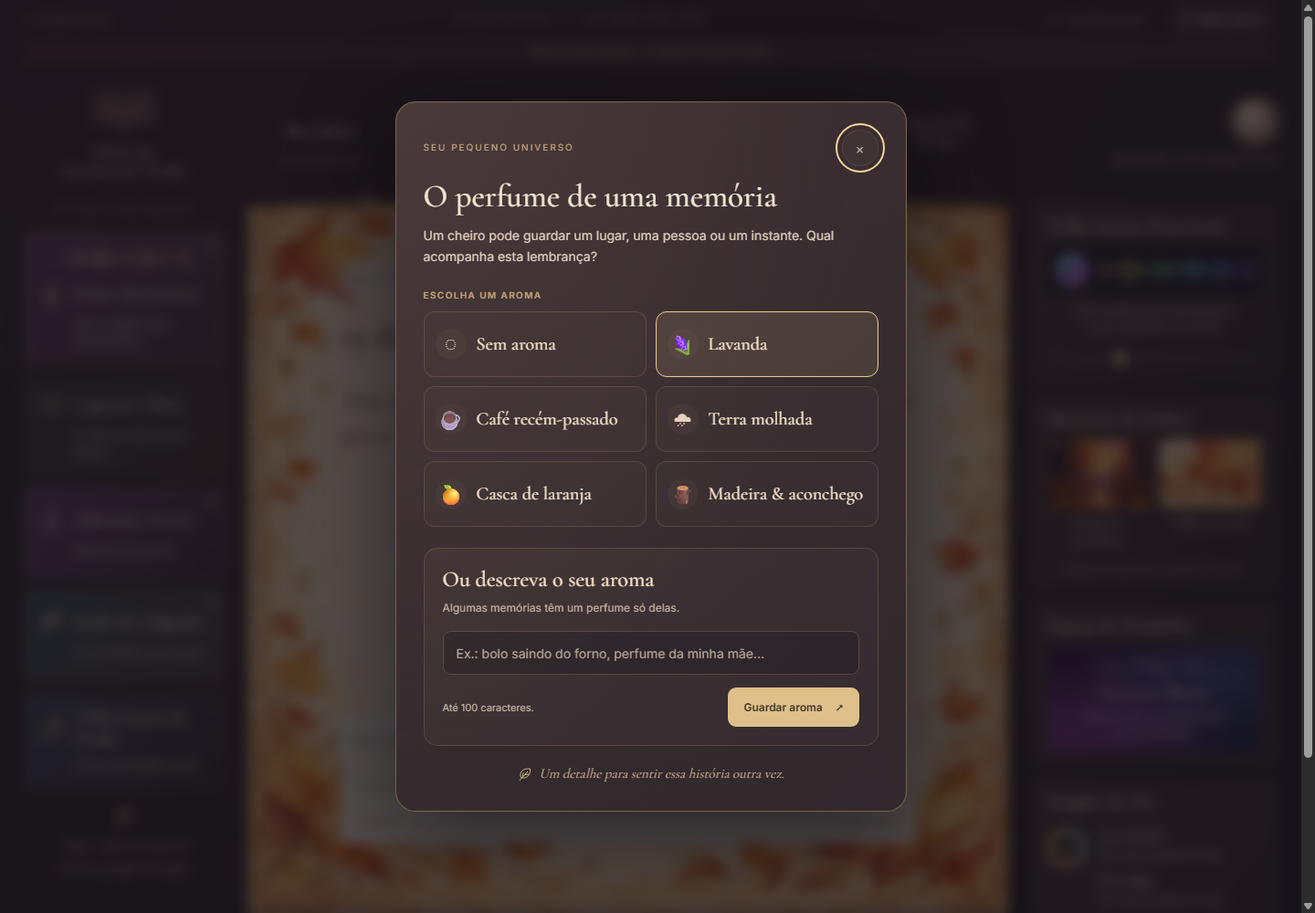
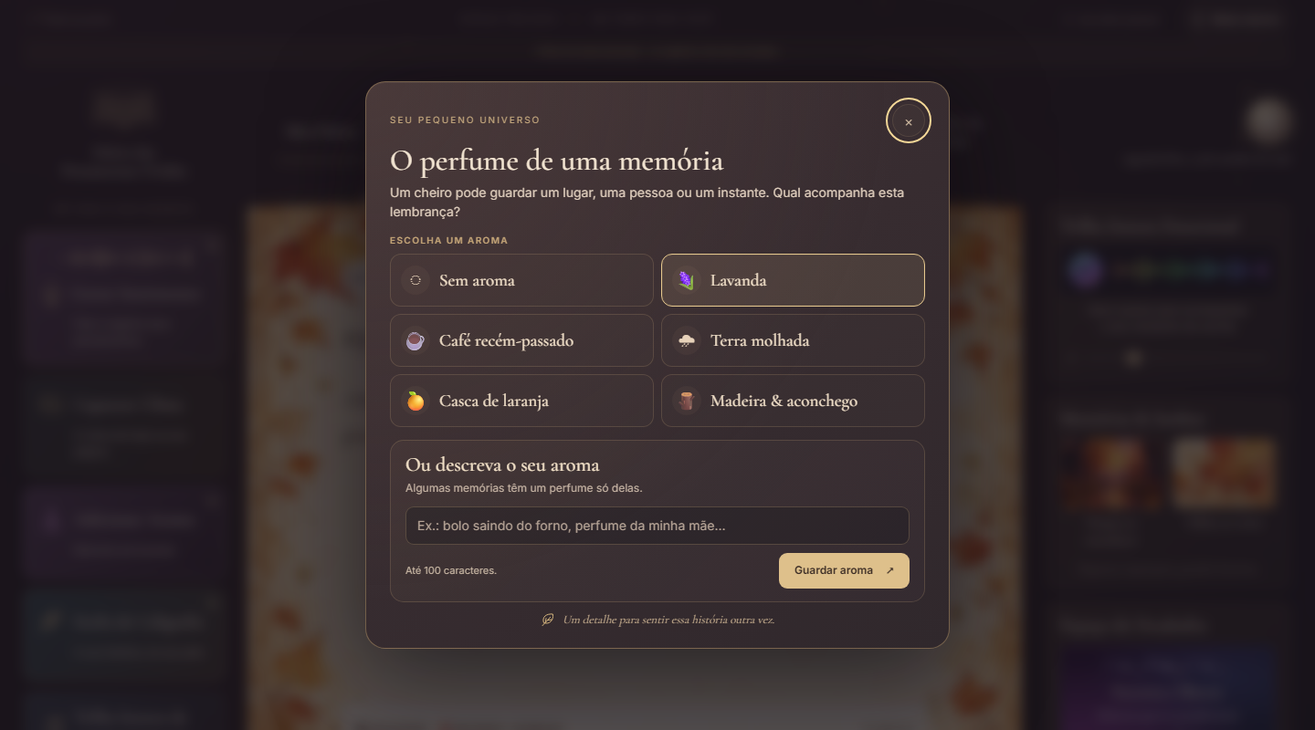
fix(diario): fit aroma dialog without scrolling

diff --git a/app/diary.css b/app/diary.css
@@ -1,5 +1,5 @@
 :root{color-scheme:dark;--night:#2a2124;--cream:#fff3d9;--gold:#e9c784;--muted:#beac9e;--ink:#3e2c24;--serif:'Cormorant Garamond',Georgia,serif;--hand:'Caveat','Segoe Print',cursive;--sans:'Inter',Arial,sans-serif}
-*{box-sizing:border-box}html{min-height:100%;background:var(--night)}body{margin:0;min-height:100svh;color:var(--cream);font:14px/1.5 var(--sans);background:radial-gradient(ellipse at 48% 52%,#5d432c55,transparent 65%),radial-gradient(ellipse at 0 0,#51303955,transparent 45%),linear-gradient(120deg,#282125,#312426 55%,#241e24);background-attachment:fixed}button,input,textarea,select{font:inherit}button,a,input,textarea,select{-webkit-tap-highlight-color:transparent}button{cursor:pointer}button:disabled{cursor:wait;opacity:.6}button,a{touch-action:manipulation}button{color:inherit}button:focus-visible,a:focus-visible{outline:2px solid #f4d797;outline-offset:5px}textarea:focus-visible,input:focus-visible,select:focus-visible{outline:2px solid #a77b3c;outline-offset:3px}button{border:0}a{color:inherit;text-decoration:none}svg{width:22px;height:22px;fill:none;stroke:currentColor;stroke-width:1.5;stroke-linecap:round;stroke-linejoin:round;flex-shrink:0}[hidden]{display:none!important}.icon-definitions{position:absolute;width:0;height:0;overflow:hidden}.sr-only{position:absolute;width:1px;height:1px;padding:0;margin:-1px;overflow:hidden;clip:rect(0,0,0,0);white-space:nowrap;border:0}
+*{box-sizing:border-box}html{min-height:100%;background:var(--night)}html.diary-modal-open,html.diary-modal-open body{overflow:hidden;scrollbar-width:none}html.diary-modal-open::-webkit-scrollbar,html.diary-modal-open body::-webkit-scrollbar{display:none;width:0;height:0}body{margin:0;min-height:100svh;color:var(--cream);font:14px/1.5 var(--sans);background:radial-gradient(ellipse at 48% 52%,#5d432c55,transparent 65%),radial-gradient(ellipse at 0 0,#51303955,transparent 45%),linear-gradient(120deg,#282125,#312426 55%,#241e24);background-attachment:fixed}button,input,textarea,select{font:inherit}button,a,input,textarea,select{-webkit-tap-highlight-color:transparent}button{cursor:pointer}button:disabled{cursor:wait;opacity:.6}button,a{touch-action:manipulation}button{color:inherit}button:focus-visible,a:focus-visible{outline:2px solid #f4d797;outline-offset:5px}textarea:focus-visible,input:focus-visible,select:focus-visible{outline:2px solid #a77b3c;outline-offset:3px}button{border:0}a{color:inherit;text-decoration:none}svg{width:22px;height:22px;fill:none;stroke:currentColor;stroke-width:1.5;stroke-linecap:round;stroke-linejoin:round;flex-shrink:0}[hidden]{display:none!important}.icon-definitions{position:absolute;width:0;height:0;overflow:hidden}.sr-only{position:absolute;width:1px;height:1px;padding:0;margin:-1px;overflow:hidden;clip:rect(0,0,0,0);white-space:nowrap;border:0}
 .diary-shell{position:relative;max-width:1740px;margin:0 auto;padding:0 26px 12px}.portal-bar{display:flex;align-items:center;justify-content:space-between;gap:14px;min-height:43px;border-bottom:1px solid #dcb67519;font-size:10px;color:#c4ad9b}.portal-bar>span:nth-child(2){font-size:9px;letter-spacing:.19em}.portal-bar i{font-style:normal;color:#d4ae68;padding:0 9px}.back-link{display:inline-flex;align-items:center;gap:7px;min-height:40px}.back-link svg{width:15px;height:15px}.back-link:hover{color:#fff3d9}.private-badge{display:flex;align-items:center;gap:6px;font-size:10px}.private-badge svg{width:12px;height:12px}.diary-header{display:grid;grid-template-columns:230px minmax(0,1fr) 220px;align-items:center;gap:25px;padding:23px 0 25px}.diary-brand{display:flex;flex-direction:column;align-items:center;text-align:center;font:500 16px/1.14 var(--serif);color:#f8ebd6;letter-spacing:.015em}.diary-brand br{display:none}.diary-brand strong{font-weight:500}.diary-brand>svg{width:90px;height:54px;color:#e9c999;fill:#e3c7971a;filter:drop-shadow(0 0 13px #f7d08a55);stroke-width:1}.diary-tabs{display:flex;align-items:stretch;justify-content:space-around;gap:13px;align-self:center}.diary-tabs button{position:relative;flex:1;min-width:0;padding:16px 3px 18px;font:500 17px/1.1 var(--serif);background:none;white-space:nowrap;color:#dfcebd;transition:color .2s}.diary-tabs button:after{content:'';position:absolute;bottom:5px;left:20%;right:20%;height:1px;background:#f1d89b;transform:scaleX(0);transition:transform .2s}.diary-tabs button.is-active{color:#fff5dc}.diary-tabs button.is-active:after{transform:scaleX(1);box-shadow:0 0 8px #e9c78477}.diary-tabs button:hover{color:#fff8ea}.diary-identity{display:flex;flex-direction:column;align-items:flex-end;gap:7px;font:12px var(--serif);color:#e4d3c1}.avatar{display:grid;place-items:center;width:34px;height:34px;border:1px solid #e9ce94aa;border-radius:50%;background:radial-gradient(circle at 35% 30%,#fff1ca,#99816d 70%);box-shadow:0 0 18px #f7dc8a55;color:#fff9ed;font:19px var(--serif)}
 .diary-layout{display:grid;grid-template-columns:230px minmax(0,1fr) 250px;gap:25px;align-items:start}.rail-caption{display:block;text-align:center;font-size:8px;letter-spacing:.17em;color:#c4aa92;margin:0 0 13px}.diary-tools{padding-top:7px;display:flex;flex-direction:column;gap:17px}.tool-card{position:relative;isolation:isolate;width:100%;text-align:center;background:linear-gradient(120deg,#51414788,#342a2b);border:1px solid #bba07b77;border-radius:10px;padding:15px 12px;color:#fff0dd;box-shadow:inset 0 0 12px #eac9870a,0 5px 18px #100c1222;transition:transform .2s,border-color .2s,box-shadow .2s}.tool-card:hover{transform:translateY(-2px);border-color:#ffe6ac;box-shadow:0 0 20px #d9b47125,inset 0 0 18px #cbaa6922}.tool-card:active{transform:translateY(1px)}.tool-card__heading{display:flex;align-items:center;justify-content:center;gap:9px;font:500 19px/1.12 var(--serif)}.tool-card__heading svg{width:27px;height:32px;color:#edcf99;filter:drop-shadow(0 0 7px #efbb7266)}.tool-card small{display:block;margin-top:8px;font-size:11px;line-height:1.5;color:#d6c7bb}.tool-card--voice{background:linear-gradient(130deg,#6d4c70bb,#423338);border-color:#dbbb8b;box-shadow:-2px 0 11px #b78ad36b,inset 0 0 16px #d9add21a}.tool-card--voice:before,.tool-card--aroma:before,.tool-card--font:before{content:'✦';position:absolute;right:8px;top:-11px;color:#fff0b5;text-shadow:0 0 10px #ffe287,0 0 20px #ffcf76;font-size:22px}.voice-wave{display:block;color:#f2d3be;letter-spacing:2px;margin:-6px 0 8px;font:19px/1 monospace;text-shadow:0 0 7px #f4cbac88}.tool-card--voice.is-listening{animation:micGlow 1.5s ease infinite}.tool-card--weather{background:linear-gradient(120deg,#3d4545aa,#3f3328)}.weather-illustration{font-size:34px;line-height:1.15}.tool-card--aroma{background:linear-gradient(130deg,#715075bb,#382932);border-color:#bd9abd;box-shadow:-1px 0 10px #d3a3dc55}.tool-card--aroma svg{color:#e4a5e6;fill:#a665a24a}.tool-card--font{padding:13px 8px;background:linear-gradient(130deg,#3a5157,#453a30);border-color:#bdae8d}.tool-card--font .tool-card__heading{font-size:18px}.tool-card--font svg{fill:#c5b18444}.tool-card--font small{font-size:10px;margin-top:4px}.tool-card--sound{background:linear-gradient(130deg,#3e4651,#332a2c);padding:14px 8px}.tool-card--sound .tool-card__heading{font-size:17px}.tools-footnote{margin:8px 0 0;text-align:center;font:italic 15px/1.6 var(--serif);color:#b49d86}.tools-footnote svg{display:block;margin:0 auto 8px;color:#bea47c;width:22px;height:22px}
 .journal-stage{min-width:0;position:relative}.journal-stage:before,.journal-stage:after{content:'✦';position:absolute;top:-14px;left:15%;font-size:12px;color:#fff3b7;filter:drop-shadow(0 0 7px #ffcf6f);z-index:2}.journal-stage:after{left:auto;right:13%;top:-10px;font-size:8px}.paper{position:relative;min-height:690px;min-height:max(690px,calc(100svh - 225px));background:#f8eace url('./assets/diary/autumn-paper.webp?h=550a30df54') center/100% 100% no-repeat;color:var(--ink);border:1px solid #c5a06e;box-shadow:0 0 0 3px #7b593b99,0 0 0 5px #291c17,4px 8px 27px #0c08098a,0 0 38px #e6be6b1a;border-radius:48% 40% 3px 3px/6px 6px 3px 3px;display:flex;overflow:hidden}.paper:before{content:'';position:absolute;inset:0;pointer-events:none;box-shadow:inset 0 0 30px #985a241c;z-index:1}.paper-content{width:100%;min-width:0;position:relative;display:flex;flex-direction:column;padding:46px clamp(43px,4.4vw,82px) 40px;z-index:2}.page-topline{display:flex;align-items:center;justify-content:space-between;gap:8px;font-size:8px;letter-spacing:.15em;color:#987644;min-height:28px}.paper-action{padding:7px 0;background:none;letter-spacing:0;font-size:10px;color:#7f6847;white-space:nowrap}.paper-action:hover{color:#392718}.paper h1{font:500 clamp(27px,2.6vw,39px)/1.3 var(--hand);color:#3c2b22;margin:13px 0 17px}.journal-text{flex:1 0 auto;width:100%;min-height:350px;resize:none;overflow:hidden;padding:0;border:0;outline:none!important;box-shadow:none;background:none;color:#35271f;font:500 clamp(24px,2.2vw,32px)/1.47 var(--hand);caret-color:#8b5b35;scrollbar-width:thin}.journal-text::placeholder{color:#6e533b;opacity:.77}.journal-text:disabled{opacity:.7;cursor:wait}.paper[data-font=classic] .journal-text{font-family:var(--serif);font-size:25px;line-height:1.6}.paper[data-font=simple] .journal-text{font-family:var(--sans);font-size:17px;line-height:1.9}.entry-details{display:flex;align-items:center;justify-content:space-between;gap:10px;margin:20px 0 14px;font-size:9px;color:#8b795b}.feeling-button{background:none;padding:8px 0;color:#816443;font:italic 15px var(--serif);text-align:left}.feeling-button:hover{color:#402e22}.entry-details>span{white-space:nowrap;font-size:8px}.save-strip{display:flex;align-items:center;gap:9px;flex-wrap:wrap;background:#f4eed3d6;border:1px solid #b9ae8b8a;border-radius:8px;padding:9px 10px;box-shadow:0 3px 14px #7d572a0a;color:#605b40;font:12px var(--serif)}.save-state{display:flex;align-items:center;gap:6px;flex-shrink:0}.save-state:before{content:'○';color:#8b8164}.save-state[data-state=saved]:before{content:'✓';color:#66864d}.save-state[data-state=error]{color:#8c3f2d;cursor:pointer}.save-state[data-state=error]:before{content:'!';border:1px solid #8c3f2d;border-radius:50%;width:14px;height:14px;text-align:center;font-size:12px}.entry-tags{display:flex;gap:4px;flex-wrap:wrap}.tag{padding:3px 7px;background:#b7a38433;border-radius:9px;font:10px var(--serif);color:#654e37}.tags-button{margin-left:auto;padding:0 5px;background:none;color:#7a6646;font:18px var(--serif)}.paper-bottom{display:flex;justify-content:space-between;gap:12px;margin-top:10px;color:#a18a65;font:italic 11px var(--serif)}.text-button{padding:2px 0;background:none;color:#987250;font:11px var(--serif)}.journal-caption{margin:17px 0 0;text-align:center;font:italic 13px var(--serif);color:#a98f78}.journal-caption span{color:#d5b273;margin-left:7px}
@@ -891,44 +891,47 @@
 
 /* Aroma: suggestions and a personal olfactory memory in one quiet surface. */
 .diary-dialog--aroma {
-  width: min(560px, calc(100% - 32px));
-  padding: 30px;
+  width: min(640px, calc(100% - 32px));
+  padding: 24px 26px 22px;
   border-radius: 22px;
   border-color: #c8a77070;
   background: radial-gradient(ellipse at 0 0, #6550474d, transparent 65%), linear-gradient(145deg, #3e3034, #30282c);
   box-shadow: 0 28px 100px #09070b99, inset 0 1px #ffe5bc0d;
+  overflow: hidden;
 }
-.diary-dialog--aroma h2 { margin: 14px 0 12px; font-size: 35px; line-height: 1.1; text-wrap: balance; }
-.diary-dialog--aroma .aroma-intro { margin: 0 0 24px; color: #decdbc; font-size: 14px; line-height: 1.65; }
+.diary-dialog--aroma .dialog-close { width: 36px; height: 36px; }
+.diary-dialog--aroma h2 { margin: 8px 0 8px; font-size: 33px; line-height: 1.08; text-wrap: balance; }
+.diary-dialog--aroma .aroma-intro { margin: 0 0 14px; color: #decdbc; font-size: 14px; line-height: 1.45; }
 .aroma-section-label { color: #c4a578; font: 600 10px/1.5 var(--sans); letter-spacing: .14em; }
-.aroma-choices { gap: 10px; margin: 10px 0 23px; }
-.aroma-choice { min-width: 0; min-height: 72px; padding: 12px; gap: 11px; border-radius: 12px; border-color: #c6ab7d33; background: #f2d4a305; }
+.aroma-choices { gap: 8px; margin: 7px 0 14px; }
+.aroma-choice { min-width: 0; min-height: 58px; padding: 8px 11px; gap: 10px; border-radius: 12px; border-color: #c6ab7d33; background: #f2d4a305; }
 .aroma-choice:hover { background: #e6c99a10; border-color: #dfbf8677; }
 .aroma-choice[aria-pressed="true"] { background: #d2b18422; border-color: #e6c88e; box-shadow: inset 0 0 0 1px #e6c88e12; }
-.aroma-choice > span { display: grid; place-items: center; flex: 0 0 34px; width: 34px; height: 34px; border-radius: 50%; background: #e6c99a0c; font-size: 22px; }
-.aroma-choice strong { min-width: 0; font: 500 20px/1.2 var(--serif); color: #f0dfc8; }
-.aroma-custom { padding: 20px; border: 1px solid #c4a57838; border-radius: 15px; background: linear-gradient(135deg,#e5c28b0c,#b28fbb08); }
-.aroma-custom > label { display: block; color: #f2e1c8; font: 500 24px/1.2 var(--serif); }
-.diary-dialog--aroma .aroma-custom > p { margin: 6px 0 15px; font-size: 12px; color: #c7b5a5; }
-.diary-dialog--aroma #customAroma { min-height: 48px; padding: 13px 14px; font-size: 14px; border-color: #b99c704d; background: #17151c52; border-radius: 9px; color: #f4e6d4; }
+.aroma-choice > span { display: grid; place-items: center; flex: 0 0 32px; width: 32px; height: 32px; border-radius: 50%; background: #e6c99a0c; font-size: 21px; }
+.aroma-choice strong { min-width: 0; font: 500 19px/1.15 var(--serif); color: #f0dfc8; }
+.aroma-custom { padding: 14px 16px; border: 1px solid #c4a57838; border-radius: 15px; background: linear-gradient(135deg,#e5c28b0c,#b28fbb08); }
+.aroma-custom > label { display: block; color: #f2e1c8; font: 500 22px/1.15 var(--serif); }
+.diary-dialog--aroma .aroma-custom > p { margin: 3px 0 9px; font-size: 12px; color: #c7b5a5; }
+.diary-dialog--aroma #customAroma { min-height: 42px; padding: 10px 12px; font-size: 14px; border-color: #b99c704d; background: #17151c52; border-radius: 9px; color: #f4e6d4; }
 .diary-dialog--aroma #customAroma::placeholder { color: #b7a597; opacity: 1; }
-.aroma-custom__footer { display: flex; flex-wrap: wrap; align-items: center; justify-content: space-between; gap: 12px; margin-top: 14px; }
+.aroma-custom__footer { display: flex; flex-wrap: wrap; align-items: center; justify-content: space-between; gap: 10px; margin-top: 9px; }
 .aroma-custom__footer > small { color: #c8b7a4; font-size: 11px; }
-.aroma-custom__footer .gold-button { min-height: 43px; gap: 14px; font-size: 12px; border-radius: 9px; }
-.diary-dialog--aroma .aroma-footnote { display: flex; align-items: center; justify-content: center; gap: 8px; margin: 20px 0 0; color: #c6ae8f; font: italic 15px/1.4 var(--serif); text-align: center; }
+.aroma-custom__footer .gold-button { min-height: 39px; gap: 14px; padding-block: 8px; font-size: 12px; border-radius: 9px; }
+.diary-dialog--aroma .aroma-footnote { display: flex; align-items: center; justify-content: center; gap: 8px; margin: 11px 0 0; color: #c6ae8f; font: italic 13px/1.35 var(--serif); text-align: center; }
 .aroma-footnote svg { width: 16px; height: 16px; color: #d5b57e; }
 #entryExtra { min-width: 0; white-space: normal; overflow-wrap: anywhere; }
 [data-diary-theme="night"] .aroma-custom { background: #20232b80; border-color: #b59b7038; }
 [data-diary-theme="night"] .diary-dialog--aroma #customAroma { background: #1d2029; }
 @media (max-width: 480px) {
-  .diary-dialog--aroma { padding: 22px; width: calc(100% - 24px); }
-  .diary-dialog--aroma h2 { font-size: 30px; }
-  .diary-dialog--aroma .aroma-intro { font-size: 13px; margin-bottom: 20px; }
-  .aroma-choices { gap: 8px; }
-  .aroma-choice { padding: 10px 8px; gap: 7px; min-height: 70px; }
-  .aroma-choice > span { flex-basis: 27px; width: 27px; height: 30px; font-size: 19px; }
-  .aroma-choice strong { font-size: 18px; }
-  .aroma-custom { padding: 16px; }
-  .aroma-custom > label { font-size: 23px; }
+  .diary-dialog--aroma { padding: 18px; width: calc(100% - 24px); }
+  .diary-dialog--aroma h2 { font-size: 28px; }
+  .diary-dialog--aroma .aroma-intro { font-size: 13px; margin-bottom: 12px; }
+  .aroma-choices { gap: 7px; margin-bottom: 12px; }
+  .aroma-choice { padding: 7px; gap: 6px; min-height: 55px; }
+  .aroma-choice > span { flex-basis: 27px; width: 27px; height: 27px; font-size: 18px; }
+  .aroma-choice strong { font-size: 17px; }
+  .aroma-custom { padding: 13px; }
+  .aroma-custom > label { font-size: 21px; }
   .aroma-custom__footer .gold-button { width: 100%; justify-content: center; }
+  .diary-dialog--aroma .aroma-footnote { margin-top: 9px; font-size: 12px; }
 }

diff --git a/staging/app/diary.css b/staging/app/diary.css
@@ -1,5 +1,5 @@
 :root{color-scheme:dark;--night:#2a2124;--cream:#fff3d9;--gold:#e9c784;--muted:#beac9e;--ink:#3e2c24;--serif:'Cormorant Garamond',Georgia,serif;--hand:'Caveat','Segoe Print',cursive;--sans:'Inter',Arial,sans-serif}
-*{box-sizing:border-box}html{min-height:100%;background:var(--night)}body{margin:0;min-height:100svh;color:var(--cream);font:14px/1.5 var(--sans);background:radial-gradient(ellipse at 48% 52%,#5d432c55,transparent 65%),radial-gradient(ellipse at 0 0,#51303955,transparent 45%),linear-gradient(120deg,#282125,#312426 55%,#241e24);background-attachment:fixed}button,input,textarea,select{font:inherit}button,a,input,textarea,select{-webkit-tap-highlight-color:transparent}button{cursor:pointer}button:disabled{cursor:wait;opacity:.6}button,a{touch-action:manipulation}button{color:inherit}button:focus-visible,a:focus-visible{outline:2px solid #f4d797;outline-offset:5px}textarea:focus-visible,input:focus-visible,select:focus-visible{outline:2px solid #a77b3c;outline-offset:3px}button{border:0}a{color:inherit;text-decoration:none}svg{width:22px;height:22px;fill:none;stroke:currentColor;stroke-width:1.5;stroke-linecap:round;stroke-linejoin:round;flex-shrink:0}[hidden]{display:none!important}.icon-definitions{position:absolute;width:0;height:0;overflow:hidden}.sr-only{position:absolute;width:1px;height:1px;padding:0;margin:-1px;overflow:hidden;clip:rect(0,0,0,0);white-space:nowrap;border:0}
+*{box-sizing:border-box}html{min-height:100%;background:var(--night)}html.diary-modal-open,html.diary-modal-open body{overflow:hidden;scrollbar-width:none}html.diary-modal-open::-webkit-scrollbar,html.diary-modal-open body::-webkit-scrollbar{display:none;width:0;height:0}body{margin:0;min-height:100svh;color:var(--cream);font:14px/1.5 var(--sans);background:radial-gradient(ellipse at 48% 52%,#5d432c55,transparent 65%),radial-gradient(ellipse at 0 0,#51303955,transparent 45%),linear-gradient(120deg,#282125,#312426 55%,#241e24);background-attachment:fixed}button,input,textarea,select{font:inherit}button,a,input,textarea,select{-webkit-tap-highlight-color:transparent}button{cursor:pointer}button:disabled{cursor:wait;opacity:.6}button,a{touch-action:manipulation}button{color:inherit}button:focus-visible,a:focus-visible{outline:2px solid #f4d797;outline-offset:5px}textarea:focus-visible,input:focus-visible,select:focus-visible{outline:2px solid #a77b3c;outline-offset:3px}button{border:0}a{color:inherit;text-decoration:none}svg{width:22px;height:22px;fill:none;stroke:currentColor;stroke-width:1.5;stroke-linecap:round;stroke-linejoin:round;flex-shrink:0}[hidden]{display:none!important}.icon-definitions{position:absolute;width:0;height:0;overflow:hidden}.sr-only{position:absolute;width:1px;height:1px;padding:0;margin:-1px;overflow:hidden;clip:rect(0,0,0,0);white-space:nowrap;border:0}
 .diary-shell{position:relative;max-width:1740px;margin:0 auto;padding:0 26px 12px}.portal-bar{display:flex;align-items:center;justify-content:space-between;gap:14px;min-height:43px;border-bottom:1px solid #dcb67519;font-size:10px;color:#c4ad9b}.portal-bar>span:nth-child(2){font-size:9px;letter-spacing:.19em}.portal-bar i{font-style:normal;color:#d4ae68;padding:0 9px}.back-link{display:inline-flex;align-items:center;gap:7px;min-height:40px}.back-link svg{width:15px;height:15px}.back-link:hover{color:#fff3d9}.private-badge{display:flex;align-items:center;gap:6px;font-size:10px}.private-badge svg{width:12px;height:12px}.diary-header{display:grid;grid-template-columns:230px minmax(0,1fr) 220px;align-items:center;gap:25px;padding:23px 0 25px}.diary-brand{display:flex;flex-direction:column;align-items:center;text-align:center;font:500 16px/1.14 var(--serif);color:#f8ebd6;letter-spacing:.015em}.diary-brand br{display:none}.diary-brand strong{font-weight:500}.diary-brand>svg{width:90px;height:54px;color:#e9c999;fill:#e3c7971a;filter:drop-shadow(0 0 13px #f7d08a55);stroke-width:1}.diary-tabs{display:flex;align-items:stretch;justify-content:space-around;gap:13px;align-self:center}.diary-tabs button{position:relative;flex:1;min-width:0;padding:16px 3px 18px;font:500 17px/1.1 var(--serif);background:none;white-space:nowrap;color:#dfcebd;transition:color .2s}.diary-tabs button:after{content:'';position:absolute;bottom:5px;left:20%;right:20%;height:1px;background:#f1d89b;transform:scaleX(0);transition:transform .2s}.diary-tabs button.is-active{color:#fff5dc}.diary-tabs button.is-active:after{transform:scaleX(1);box-shadow:0 0 8px #e9c78477}.diary-tabs button:hover{color:#fff8ea}.diary-identity{display:flex;flex-direction:column;align-items:flex-end;gap:7px;font:12px var(--serif);color:#e4d3c1}.avatar{display:grid;place-items:center;width:34px;height:34px;border:1px solid #e9ce94aa;border-radius:50%;background:radial-gradient(circle at 35% 30%,#fff1ca,#99816d 70%);box-shadow:0 0 18px #f7dc8a55;color:#fff9ed;font:19px var(--serif)}
 .diary-layout{display:grid;grid-template-columns:230px minmax(0,1fr) 250px;gap:25px;align-items:start}.rail-caption{display:block;text-align:center;font-size:8px;letter-spacing:.17em;color:#c4aa92;margin:0 0 13px}.diary-tools{padding-top:7px;display:flex;flex-direction:column;gap:17px}.tool-card{position:relative;isolation:isolate;width:100%;text-align:center;background:linear-gradient(120deg,#51414788,#342a2b);border:1px solid #bba07b77;border-radius:10px;padding:15px 12px;color:#fff0dd;box-shadow:inset 0 0 12px #eac9870a,0 5px 18px #100c1222;transition:transform .2s,border-color .2s,box-shadow .2s}.tool-card:hover{transform:translateY(-2px);border-color:#ffe6ac;box-shadow:0 0 20px #d9b47125,inset 0 0 18px #cbaa6922}.tool-card:active{transform:translateY(1px)}.tool-card__heading{display:flex;align-items:center;justify-content:center;gap:9px;font:500 19px/1.12 var(--serif)}.tool-card__heading svg{width:27px;height:32px;color:#edcf99;filter:drop-shadow(0 0 7px #efbb7266)}.tool-card small{display:block;margin-top:8px;font-size:11px;line-height:1.5;color:#d6c7bb}.tool-card--voice{background:linear-gradient(130deg,#6d4c70bb,#423338);border-color:#dbbb8b;box-shadow:-2px 0 11px #b78ad36b,inset 0 0 16px #d9add21a}.tool-card--voice:before,.tool-card--aroma:before,.tool-card--font:before{content:'✦';position:absolute;right:8px;top:-11px;color:#fff0b5;text-shadow:0 0 10px #ffe287,0 0 20px #ffcf76;font-size:22px}.voice-wave{display:block;color:#f2d3be;letter-spacing:2px;margin:-6px 0 8px;font:19px/1 monospace;text-shadow:0 0 7px #f4cbac88}.tool-card--voice.is-listening{animation:micGlow 1.5s ease infinite}.tool-card--weather{background:linear-gradient(120deg,#3d4545aa,#3f3328)}.weather-illustration{font-size:34px;line-height:1.15}.tool-card--aroma{background:linear-gradient(130deg,#715075bb,#382932);border-color:#bd9abd;box-shadow:-1px 0 10px #d3a3dc55}.tool-card--aroma svg{color:#e4a5e6;fill:#a665a24a}.tool-card--font{padding:13px 8px;background:linear-gradient(130deg,#3a5157,#453a30);border-color:#bdae8d}.tool-card--font .tool-card__heading{font-size:18px}.tool-card--font svg{fill:#c5b18444}.tool-card--font small{font-size:10px;margin-top:4px}.tool-card--sound{background:linear-gradient(130deg,#3e4651,#332a2c);padding:14px 8px}.tool-card--sound .tool-card__heading{font-size:17px}.tools-footnote{margin:8px 0 0;text-align:center;font:italic 15px/1.6 var(--serif);color:#b49d86}.tools-footnote svg{display:block;margin:0 auto 8px;color:#bea47c;width:22px;height:22px}
 .journal-stage{min-width:0;position:relative}.journal-stage:before,.journal-stage:after{content:'✦';position:absolute;top:-14px;left:15%;font-size:12px;color:#fff3b7;filter:drop-shadow(0 0 7px #ffcf6f);z-index:2}.journal-stage:after{left:auto;right:13%;top:-10px;font-size:8px}.paper{position:relative;min-height:690px;min-height:max(690px,calc(100svh - 225px));background:#f8eace url('./assets/diary/autumn-paper.webp?h=550a30df54') center/100% 100% no-repeat;color:var(--ink);border:1px solid #c5a06e;box-shadow:0 0 0 3px #7b593b99,0 0 0 5px #291c17,4px 8px 27px #0c08098a,0 0 38px #e6be6b1a;border-radius:48% 40% 3px 3px/6px 6px 3px 3px;display:flex;overflow:hidden}.paper:before{content:'';position:absolute;inset:0;pointer-events:none;box-shadow:inset 0 0 30px #985a241c;z-index:1}.paper-content{width:100%;min-width:0;position:relative;display:flex;flex-direction:column;padding:46px clamp(43px,4.4vw,82px) 40px;z-index:2}.page-topline{display:flex;align-items:center;justify-content:space-between;gap:8px;font-size:8px;letter-spacing:.15em;color:#987644;min-height:28px}.paper-action{padding:7px 0;background:none;letter-spacing:0;font-size:10px;color:#7f6847;white-space:nowrap}.paper-action:hover{color:#392718}.paper h1{font:500 clamp(27px,2.6vw,39px)/1.3 var(--hand);color:#3c2b22;margin:13px 0 17px}.journal-text{flex:1 0 auto;width:100%;min-height:350px;resize:none;overflow:hidden;padding:0;border:0;outline:none!important;box-shadow:none;background:none;color:#35271f;font:500 clamp(24px,2.2vw,32px)/1.47 var(--hand);caret-color:#8b5b35;scrollbar-width:thin}.journal-text::placeholder{color:#6e533b;opacity:.77}.journal-text:disabled{opacity:.7;cursor:wait}.paper[data-font=classic] .journal-text{font-family:var(--serif);font-size:25px;line-height:1.6}.paper[data-font=simple] .journal-text{font-family:var(--sans);font-size:17px;line-height:1.9}.entry-details{display:flex;align-items:center;justify-content:space-between;gap:10px;margin:20px 0 14px;font-size:9px;color:#8b795b}.feeling-button{background:none;padding:8px 0;color:#816443;font:italic 15px var(--serif);text-align:left}.feeling-button:hover{color:#402e22}.entry-details>span{white-space:nowrap;font-size:8px}.save-strip{display:flex;align-items:center;gap:9px;flex-wrap:wrap;background:#f4eed3d6;border:1px solid #b9ae8b8a;border-radius:8px;padding:9px 10px;box-shadow:0 3px 14px #7d572a0a;color:#605b40;font:12px var(--serif)}.save-state{display:flex;align-items:center;gap:6px;flex-shrink:0}.save-state:before{content:'○';color:#8b8164}.save-state[data-state=saved]:before{content:'✓';color:#66864d}.save-state[data-state=error]{color:#8c3f2d;cursor:pointer}.save-state[data-state=error]:before{content:'!';border:1px solid #8c3f2d;border-radius:50%;width:14px;height:14px;text-align:center;font-size:12px}.entry-tags{display:flex;gap:4px;flex-wrap:wrap}.tag{padding:3px 7px;background:#b7a38433;border-radius:9px;font:10px var(--serif);color:#654e37}.tags-button{margin-left:auto;padding:0 5px;background:none;color:#7a6646;font:18px var(--serif)}.paper-bottom{display:flex;justify-content:space-between;gap:12px;margin-top:10px;color:#a18a65;font:italic 11px var(--serif)}.text-button{padding:2px 0;background:none;color:#987250;font:11px var(--serif)}.journal-caption{margin:17px 0 0;text-align:center;font:italic 13px var(--serif);color:#a98f78}.journal-caption span{color:#d5b273;margin-left:7px}
@@ -891,44 +891,47 @@
 
 /* Aroma: suggestions and a personal olfactory memory in one quiet surface. */
 .diary-dialog--aroma {
-  width: min(560px, calc(100% - 32px));
-  padding: 30px;
+  width: min(640px, calc(100% - 32px));
+  padding: 24px 26px 22px;
   border-radius: 22px;
   border-color: #c8a77070;
   background: radial-gradient(ellipse at 0 0, #6550474d, transparent 65%), linear-gradient(145deg, #3e3034, #30282c);
   box-shadow: 0 28px 100px #09070b99, inset 0 1px #ffe5bc0d;
+  overflow: hidden;
 }
-.diary-dialog--aroma h2 { margin: 14px 0 12px; font-size: 35px; line-height: 1.1; text-wrap: balance; }
-.diary-dialog--aroma .aroma-intro { margin: 0 0 24px; color: #decdbc; font-size: 14px; line-height: 1.65; }
+.diary-dialog--aroma .dialog-close { width: 36px; height: 36px; }
+.diary-dialog--aroma h2 { margin: 8px 0 8px; font-size: 33px; line-height: 1.08; text-wrap: balance; }
+.diary-dialog--aroma .aroma-intro { margin: 0 0 14px; color: #decdbc; font-size: 14px; line-height: 1.45; }
 .aroma-section-label { color: #c4a578; font: 600 10px/1.5 var(--sans); letter-spacing: .14em; }
-.aroma-choices { gap: 10px; margin: 10px 0 23px; }
-.aroma-choice { min-width: 0; min-height: 72px; padding: 12px; gap: 11px; border-radius: 12px; border-color: #c6ab7d33; background: #f2d4a305; }
+.aroma-choices { gap: 8px; margin: 7px 0 14px; }
+.aroma-choice { min-width: 0; min-height: 58px; padding: 8px 11px; gap: 10px; border-radius: 12px; border-color: #c6ab7d33; background: #f2d4a305; }
 .aroma-choice:hover { background: #e6c99a10; border-color: #dfbf8677; }
 .aroma-choice[aria-pressed="true"] { background: #d2b18422; border-color: #e6c88e; box-shadow: inset 0 0 0 1px #e6c88e12; }
-.aroma-choice > span { display: grid; place-items: center; flex: 0 0 34px; width: 34px; height: 34px; border-radius: 50%; background: #e6c99a0c; font-size: 22px; }
-.aroma-choice strong { min-width: 0; font: 500 20px/1.2 var(--serif); color: #f0dfc8; }
-.aroma-custom { padding: 20px; border: 1px solid #c4a57838; border-radius: 15px; background: linear-gradient(135deg,#e5c28b0c,#b28fbb08); }
-.aroma-custom > label { display: block; color: #f2e1c8; font: 500 24px/1.2 var(--serif); }
-.diary-dialog--aroma .aroma-custom > p { margin: 6px 0 15px; font-size: 12px; color: #c7b5a5; }
-.diary-dialog--aroma #customAroma { min-height: 48px; padding: 13px 14px; font-size: 14px; border-color: #b99c704d; background: #17151c52; border-radius: 9px; color: #f4e6d4; }
+.aroma-choice > span { display: grid; place-items: center; flex: 0 0 32px; width: 32px; height: 32px; border-radius: 50%; background: #e6c99a0c; font-size: 21px; }
+.aroma-choice strong { min-width: 0; font: 500 19px/1.15 var(--serif); color: #f0dfc8; }
+.aroma-custom { padding: 14px 16px; border: 1px solid #c4a57838; border-radius: 15px; background: linear-gradient(135deg,#e5c28b0c,#b28fbb08); }
+.aroma-custom > label { display: block; color: #f2e1c8; font: 500 22px/1.15 var(--serif); }
+.diary-dialog--aroma .aroma-custom > p { margin: 3px 0 9px; font-size: 12px; color: #c7b5a5; }
+.diary-dialog--aroma #customAroma { min-height: 42px; padding: 10px 12px; font-size: 14px; border-color: #b99c704d; background: #17151c52; border-radius: 9px; color: #f4e6d4; }
 .diary-dialog--aroma #customAroma::placeholder { color: #b7a597; opacity: 1; }
-.aroma-custom__footer { display: flex; flex-wrap: wrap; align-items: center; justify-content: space-between; gap: 12px; margin-top: 14px; }
+.aroma-custom__footer { display: flex; flex-wrap: wrap; align-items: center; justify-content: space-between; gap: 10px; margin-top: 9px; }
 .aroma-custom__footer > small { color: #c8b7a4; font-size: 11px; }
-.aroma-custom__footer .gold-button { min-height: 43px; gap: 14px; font-size: 12px; border-radius: 9px; }
-.diary-dialog--aroma .aroma-footnote { display: flex; align-items: center; justify-content: center; gap: 8px; margin: 20px 0 0; color: #c6ae8f; font: italic 15px/1.4 var(--serif); text-align: center; }
+.aroma-custom__footer .gold-button { min-height: 39px; gap: 14px; padding-block: 8px; font-size: 12px; border-radius: 9px; }
+.diary-dialog--aroma .aroma-footnote { display: flex; align-items: center; justify-content: center; gap: 8px; margin: 11px 0 0; color: #c6ae8f; font: italic 13px/1.35 var(--serif); text-align: center; }
 .aroma-footnote svg { width: 16px; height: 16px; color: #d5b57e; }
 #entryExtra { min-width: 0; white-space: normal; overflow-wrap: anywhere; }
 [data-diary-theme="night"] .aroma-custom { background: #20232b80; border-color: #b59b7038; }
 [data-diary-theme="night"] .diary-dialog--aroma #customAroma { background: #1d2029; }
 @media (max-width: 480px) {
-  .diary-dialog--aroma { padding: 22px; width: calc(100% - 24px); }
-  .diary-dialog--aroma h2 { font-size: 30px; }
-  .diary-dialog--aroma .aroma-intro { font-size: 13px; margin-bottom: 20px; }
-  .aroma-choices { gap: 8px; }
-  .aroma-choice { padding: 10px 8px; gap: 7px; min-height: 70px; }
-  .aroma-choice > span { flex-basis: 27px; width: 27px; height: 30px; font-size: 19px; }
-  .aroma-choice strong { font-size: 18px; }
-  .aroma-custom { padding: 16px; }
-  .aroma-custom > label { font-size: 23px; }
+  .diary-dialog--aroma { padding: 18px; width: calc(100% - 24px); }
+  .diary-dialog--aroma h2 { font-size: 28px; }
+  .diary-dialog--aroma .aroma-intro { font-size: 13px; margin-bottom: 12px; }
+  .aroma-choices { gap: 7px; margin-bottom: 12px; }
+  .aroma-choice { padding: 7px; gap: 6px; min-height: 55px; }
+  .aroma-choice > span { flex-basis: 27px; width: 27px; height: 27px; font-size: 18px; }
+  .aroma-choice strong { font-size: 17px; }
+  .aroma-custom { padding: 13px; }
+  .aroma-custom > label { font-size: 21px; }
   .aroma-custom__footer .gold-button { width: 100%; justify-content: center; }
+  .diary-dialog--aroma .aroma-footnote { margin-top: 9px; font-size: 12px; }
 }

diff --git a/app/diary.js b/app/diary.js
@@ -235,9 +235,9 @@ async function loadMore() {
 function openDialog(title, markup, cleanup = null) {
   if (dialog.open) closeDialog();
   dialogOrigin = document.activeElement; dialogCleanup = cleanup; dialogGeneration = bootGeneration; dialogSerial++;
-  $('dialogTitle').textContent = title; $('dialogBody').innerHTML = markup; dialog.showModal();
+  $('dialogTitle').textContent = title; $('dialogBody').innerHTML = markup; document.documentElement.classList.add('diary-modal-open'); dialog.showModal();
 }
-function closeDialog() { dialogSerial++; dialogCleanup?.(); dialogCleanup = null; if (dialog.open) dialog.close(); dialog.classList.remove('diary-dialog--aroma'); $('dialogBody').replaceChildren(); $('dialogTitle').textContent = ''; dialogOrigin?.focus?.(); }
+function closeDialog() { dialogSerial++; dialogCleanup?.(); dialogCleanup = null; if (dialog.open) dialog.close(); document.documentElement.classList.remove('diary-modal-open'); dialog.classList.remove('diary-dialog--aroma'); $('dialogBody').replaceChildren(); $('dialogTitle').textContent = ''; dialogOrigin?.focus?.(); }
 function requestCloseDialog() {
   if ($('capsuleText')?.value.trim() && !window.confirm('Descartar esta carta ainda não selada?')) return;
   closeDialog();

diff --git a/staging/app/diary.js b/staging/app/diary.js
@@ -235,9 +235,9 @@ async function loadMore() {
 function openDialog(title, markup, cleanup = null) {
   if (dialog.open) closeDialog();
   dialogOrigin = document.activeElement; dialogCleanup = cleanup; dialogGeneration = bootGeneration; dialogSerial++;
-  $('dialogTitle').textContent = title; $('dialogBody').innerHTML = markup; dialog.showModal();
+  $('dialogTitle').textContent = title; $('dialogBody').innerHTML = markup; document.documentElement.classList.add('diary-modal-open'); dialog.showModal();
 }
-function closeDialog() { dialogSerial++; dialogCleanup?.(); dialogCleanup = null; if (dialog.open) dialog.close(); dialog.classList.remove('diary-dialog--aroma'); $('dialogBody').replaceChildren(); $('dialogTitle').textContent = ''; dialogOrigin?.focus?.(); }
+function closeDialog() { dialogSerial++; dialogCleanup?.(); dialogCleanup = null; if (dialog.open) dialog.close(); document.documentElement.classList.remove('diary-modal-open'); dialog.classList.remove('diary-dialog--aroma'); $('dialogBody').replaceChildren(); $('dialogTitle').textContent = ''; dialogOrigin?.focus?.(); }
 function requestCloseDialog() {
   if ($('capsuleText')?.value.trim() && !window.confirm('Descartar esta carta ainda não selada?')) return;
   closeDialog();

diff --git a/aluno-diario.html b/aluno-diario.html
@@ -14,9 +14,9 @@
   <title data-i18n="p-diary:page_title">Diário dos Pensamentos Vividos · Espaço Prelúdio</title>
   <link rel="icon" href="/logo-144.png" type="image/png">
   <link rel="stylesheet" href="./fonts/caveat400-600_cormorantgaramond400-600_inter400-600.css?h=4f8befaaca">
-  <link rel="stylesheet" href="./app/diary.css?h=b0c6cc7992">
+  <link rel="stylesheet" href="./app/diary.css?h=33efbcee3d">
   <script src="/i18n/init.js?v=2-8" defer></script>
-  <script type="module" src="./app/diary.js?h=fcaf38225f"></script>
+  <script type="module" src="./app/diary.js?h=77cc04e835"></script>
 </head>
 <body data-portal="student">
   <svg class="icon-definitions" xmlns="http://www.w3.org/2000/svg" aria-hidden="true"><defs>

diff --git a/staging/aluno-diario.html b/staging/aluno-diario.html
@@ -14,9 +14,9 @@
   <title data-i18n="p-diary:page_title">Diário dos Pensamentos Vividos · Espaço Prelúdio</title>
   <link rel="icon" href="/logo-144.png" type="image/png">
   <link rel="stylesheet" href="./fonts/caveat400-600_cormorantgaramond400-600_inter400-600.css?h=4f8befaaca">
-  <link rel="stylesheet" href="./app/diary.css?h=b0c6cc7992">
+  <link rel="stylesheet" href="./app/diary.css?h=33efbcee3d">
   <script src="/i18n/init.js?v=2-8" defer></script>
-  <script type="module" src="./app/diary.js?h=fcaf38225f"></script>
+  <script type="module" src="./app/diary.js?h=77cc04e835"></script>
 </head>
 <body data-portal="student">
   <svg class="icon-definitions" xmlns="http://www.w3.org/2000/svg" aria-hidden="true"><defs>

diff --git a/app/diario.html b/app/diario.html
@@ -14,9 +14,9 @@
   <title data-i18n="p-diary:page_title">Diário dos Pensamentos Vividos · Espaço Prelúdio</title>
   <link rel="icon" href="/logo-144.png" type="image/png">
   <link rel="stylesheet" href="../fonts/caveat400-600_cormorantgaramond400-600_inter400-600.css?h=4f8befaaca">
-  <link rel="stylesheet" href="./diary.css?h=b0c6cc7992">
+  <link rel="stylesheet" href="./diary.css?h=33efbcee3d">
   <script src="/i18n/init.js?v=2-8" defer></script>
-  <script type="module" src="./diary.js?h=fcaf38225f"></script>
+  <script type="module" src="./diary.js?h=77cc04e835"></script>
 </head>
 <body data-portal="collaborator">
   <svg class="icon-definitions" xmlns="http://www.w3.org/2000/svg" aria-hidden="true"><defs>

diff --git a/staging/app/diario.html b/staging/app/diario.html
@@ -14,9 +14,9 @@
   <title data-i18n="p-diary:page_title">Diário dos Pensamentos Vividos · Espaço Prelúdio</title>
   <link rel="icon" href="/logo-144.png" type="image/png">
   <link rel="stylesheet" href="../fonts/caveat400-600_cormorantgaramond400-600_inter400-600.css?h=4f8befaaca">
-  <link rel="stylesheet" href="./diary.css?h=b0c6cc7992">
+  <link rel="stylesheet" href="./diary.css?h=33efbcee3d">
   <script src="/i18n/init.js?v=2-8" defer></script>
-  <script type="module" src="./diary.js?h=fcaf38225f"></script>
+  <script type="module" src="./diary.js?h=77cc04e835"></script>
 </head>
 <body data-portal="collaborator">
   <svg class="icon-definitions" xmlns="http://www.w3.org/2000/svg" aria-hidden="true"><defs>
